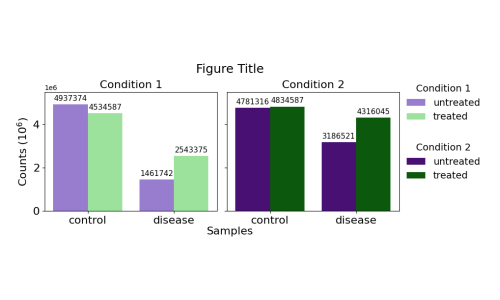
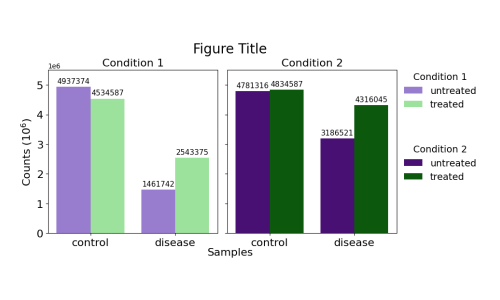
Add page for Obsidian PhD vault

Changed region(s): [[0.03, 0.18, 0.96, 0.87], [0.39, 0.12, 0.54, 0.18]]

diff --git a/assets/css/main.scss b/assets/css/main.scss
@@ -1,0 +1,40 @@
+---
+# Only the main Sass file needs front matter (the dashes are enough)
+search: false
+---
+
+// copied from https://github.com/mmistakes/minimal-mistakes/blob/master/assets/css/main.scss
+// per https://mmistakes.github.io/minimal-mistakes/docs/stylesheets/
+// To make basic tweaks to theme’s style Sass variables
+
+/* button colors */ 
+// add custom colors here
+$buttoncolors:
+(primary, $primary-color),
+(inverse, #fff),
+(light-outline, transparent),
+(success, $success-color),
+(warning, $warning-color),
+(danger, $danger-color),
+(info, $info-color),
+(obsidian, #A88EF7),
+/* brands */
+(bluesky, $bluesky-color),
+(facebook, $facebook-color),
+(linkedin, $linkedin-color),
+(mastodon, $mastodon-color),
+(twitter, $twitter-color),
+(x, $x-color);
+
+/* Obsidian notice */
+.notice--obsidian,
+.markdown-alert-obsidian {
+  @include notice(#A88EF7);  // your custom color
+}
+
+// load default Minimal Mistakes styles
+
+@charset "utf-8";
+
+@import "minimal-mistakes/skins/{{ site.minimal_mistakes_skin | default: 'default' }}"; // skin
+@import "minimal-mistakes"; // main partials

diff --git a/_posts/2025-10-21-double-barplot-example1.md b/_posts/2025-10-21-double-barplot-example1.md
@@ -50,7 +50,7 @@ df1_colors = {"untreated": "mediumpurple", "treated": "lightgreen"}
 df2_colors = {"untreated": "indigo", "treated": "darkgreen"}
 
 # Set up the figure and axes
-fig, (ax1, ax2) = plt.subplots(1, 2, figsize=(9, 4), sharey=True)
+fig, (ax1, ax2) = plt.subplots(1, 2, figsize=(9, 5), sharey=True)
 
 # condition 1 plot
 sns.barplot(x="sample", y="count", hue="treatment", data=df1, palette=df1_colors, ax=ax1)
@@ -88,8 +88,8 @@ fig.legend(h1, l1, title="Condition 1", loc='center left', bbox_to_anchor=(0.88,
 fig.legend(h2, l2, title="Condition 2", loc='center left', bbox_to_anchor=(0.88, 0.45), frameon=False, fontsize=14, title_fontsize=14)
 
 # Add a single, centered x-axis label  and title for the entire figure
-fig.supxlabel("Samples", fontsize=16, y=0.07)
-fig.suptitle(fig_title, fontsize=18, y=0.95)
+fig.supxlabel("Samples", fontsize=16, y=0.06)
+fig.suptitle(fig_title, fontsize=20, y=0.95)
 
 # Adjust layout to make space for the legends
 plt.ylim(0, 5500000)

diff --git a/_pages/obsidian-phd-vault.md b/_pages/obsidian-phd-vault.md
@@ -1,0 +1,16 @@
+---
+title:  "Obsidian for PhD research" 
+excerpt: "Example of how you can use Obsidian notetaking app for your PhD (or other research)."
+permalink: /obsidian-phd-vault/
+date: 2025-10-24
+---
+
+Here is a quick preview of how this vault is set up.
+
+Download an example Obsidian PhD vault from [this GitHub repo](https://github.com/jazsakr/phd_vault).
+{: .notice--obsidian}
+
+
+## Tracking Productivity 
+
+![Preview of a productivity log in an Obsidian PhD vault](/assets/images/preview/obsidian-phd-vault-preview-productivity-log.png)

diff --git a/_pages/home.md b/_pages/home.md
@@ -20,8 +20,8 @@ feature_row:
     alt: "Image of a Obsidian vault folder for PhD research"
     title: "Obsidian for PhD research"
     excerpt: "Example of how you can use Obsidian notetaking app for your PhD (or other research)."
-    url: "https://jazsakr.github.io/"
-    btn_label: "(Coming soon)"
+    url: "https://jazsakr.github.io/obsidian-phd-vault/"
+    btn_label: "Click here"
     btn_class: "btn--primary"
 ---
 
